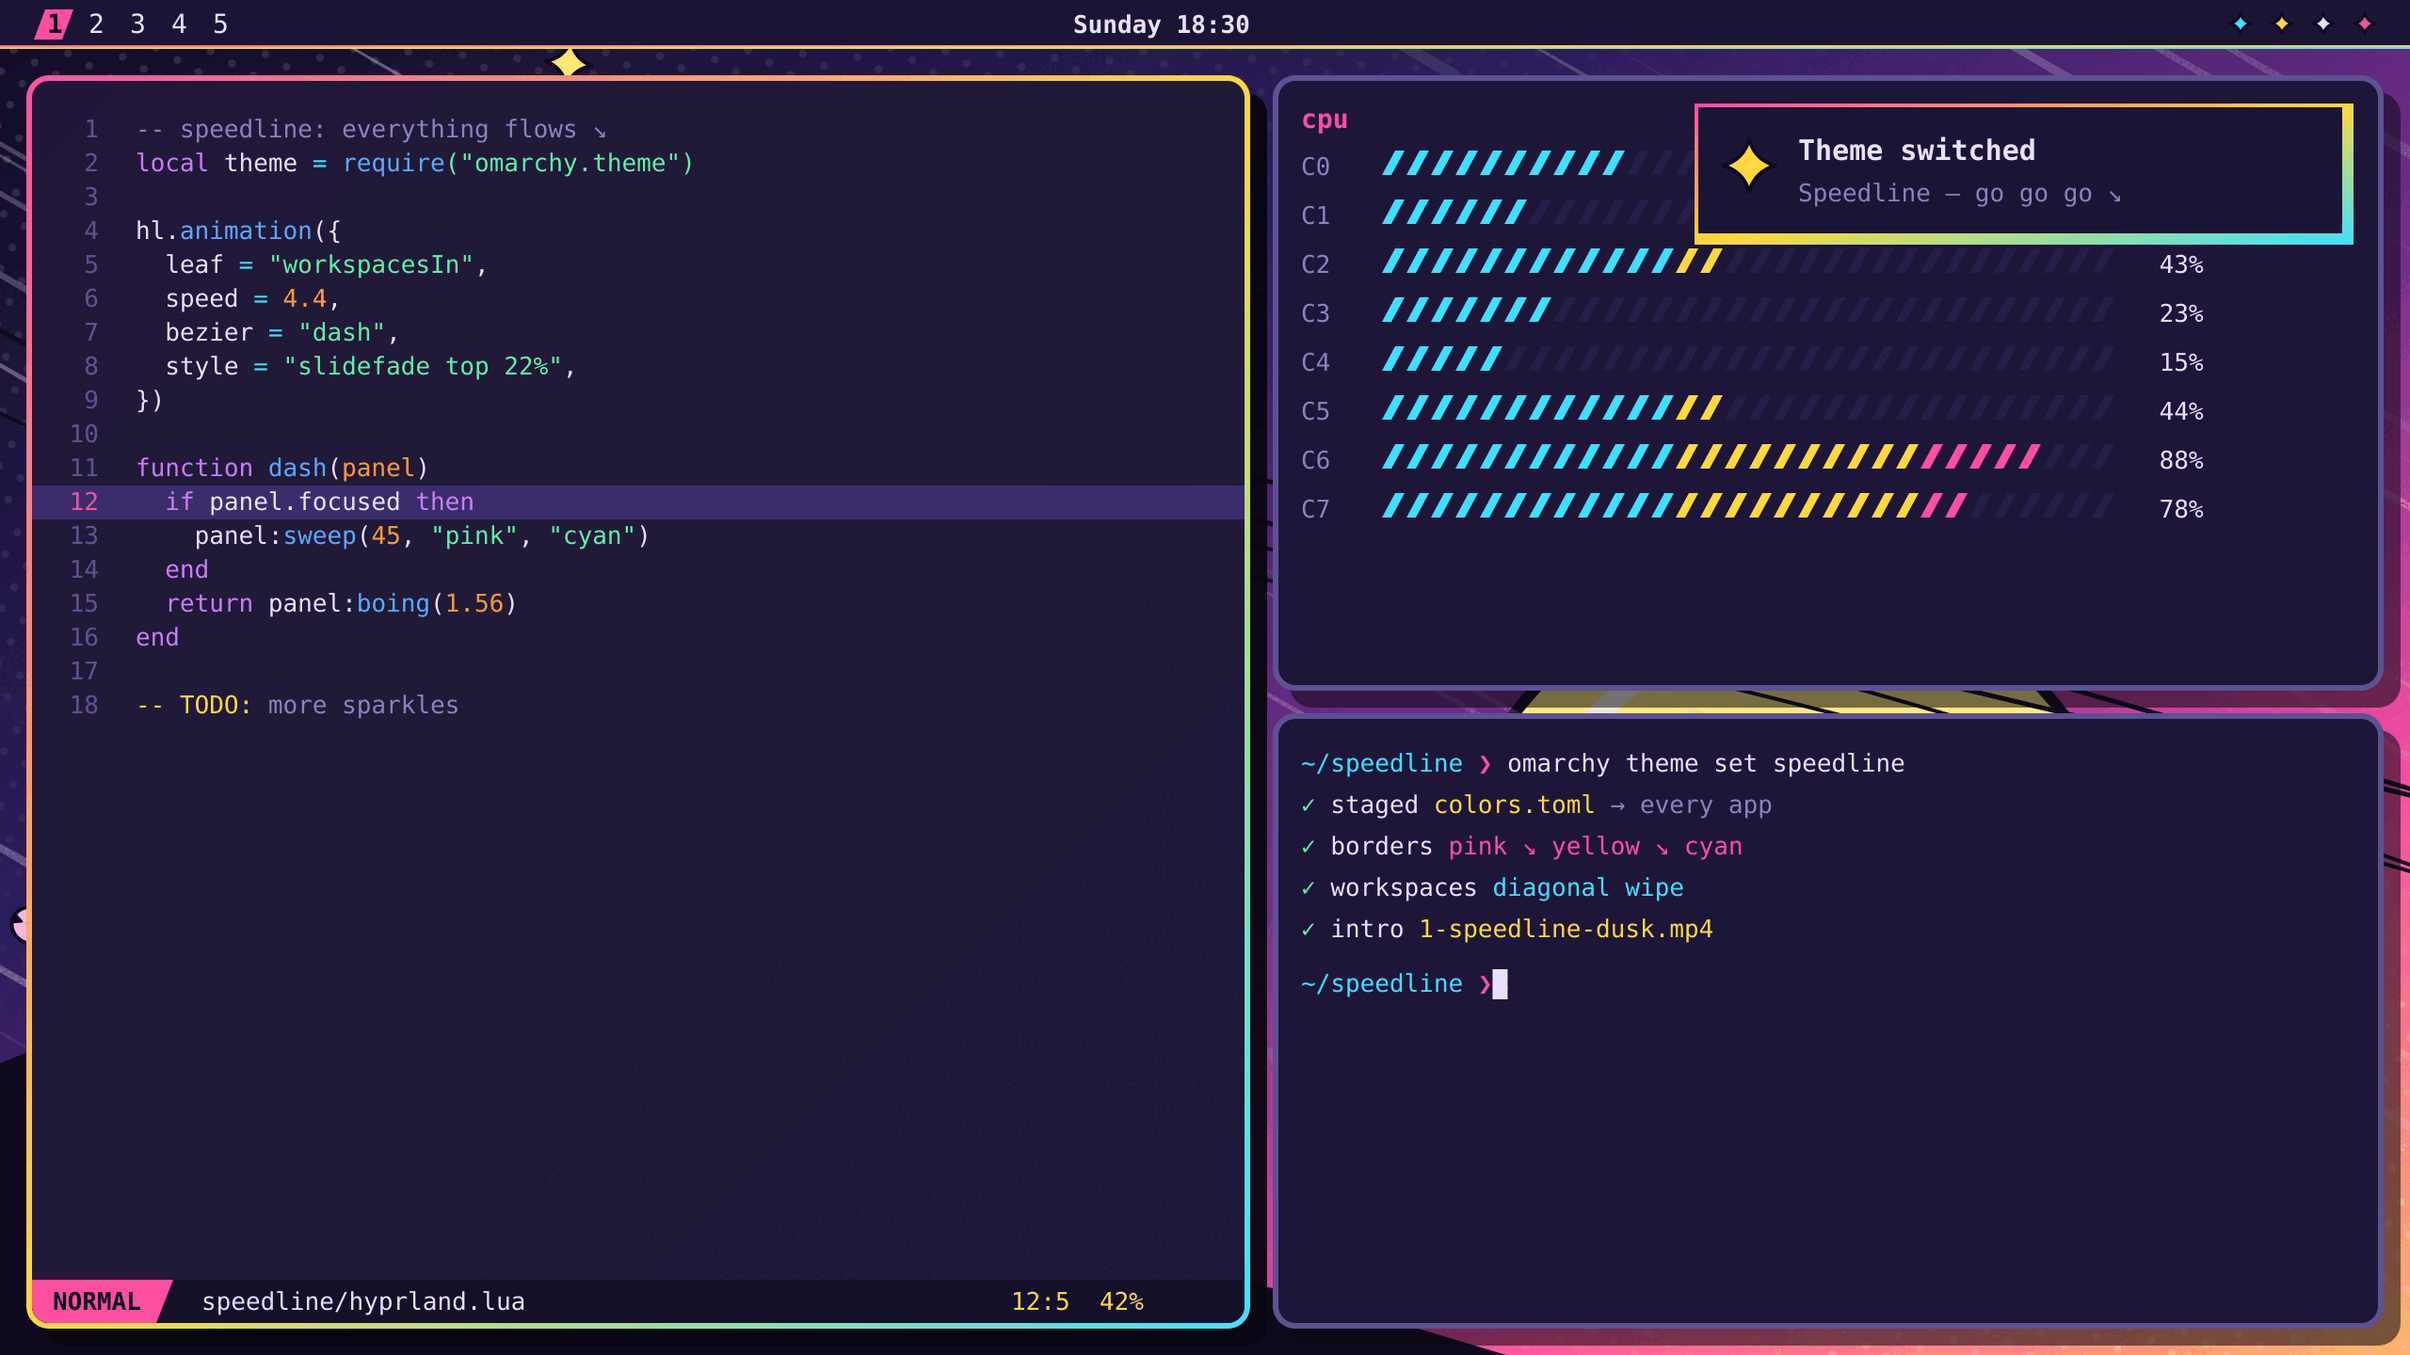
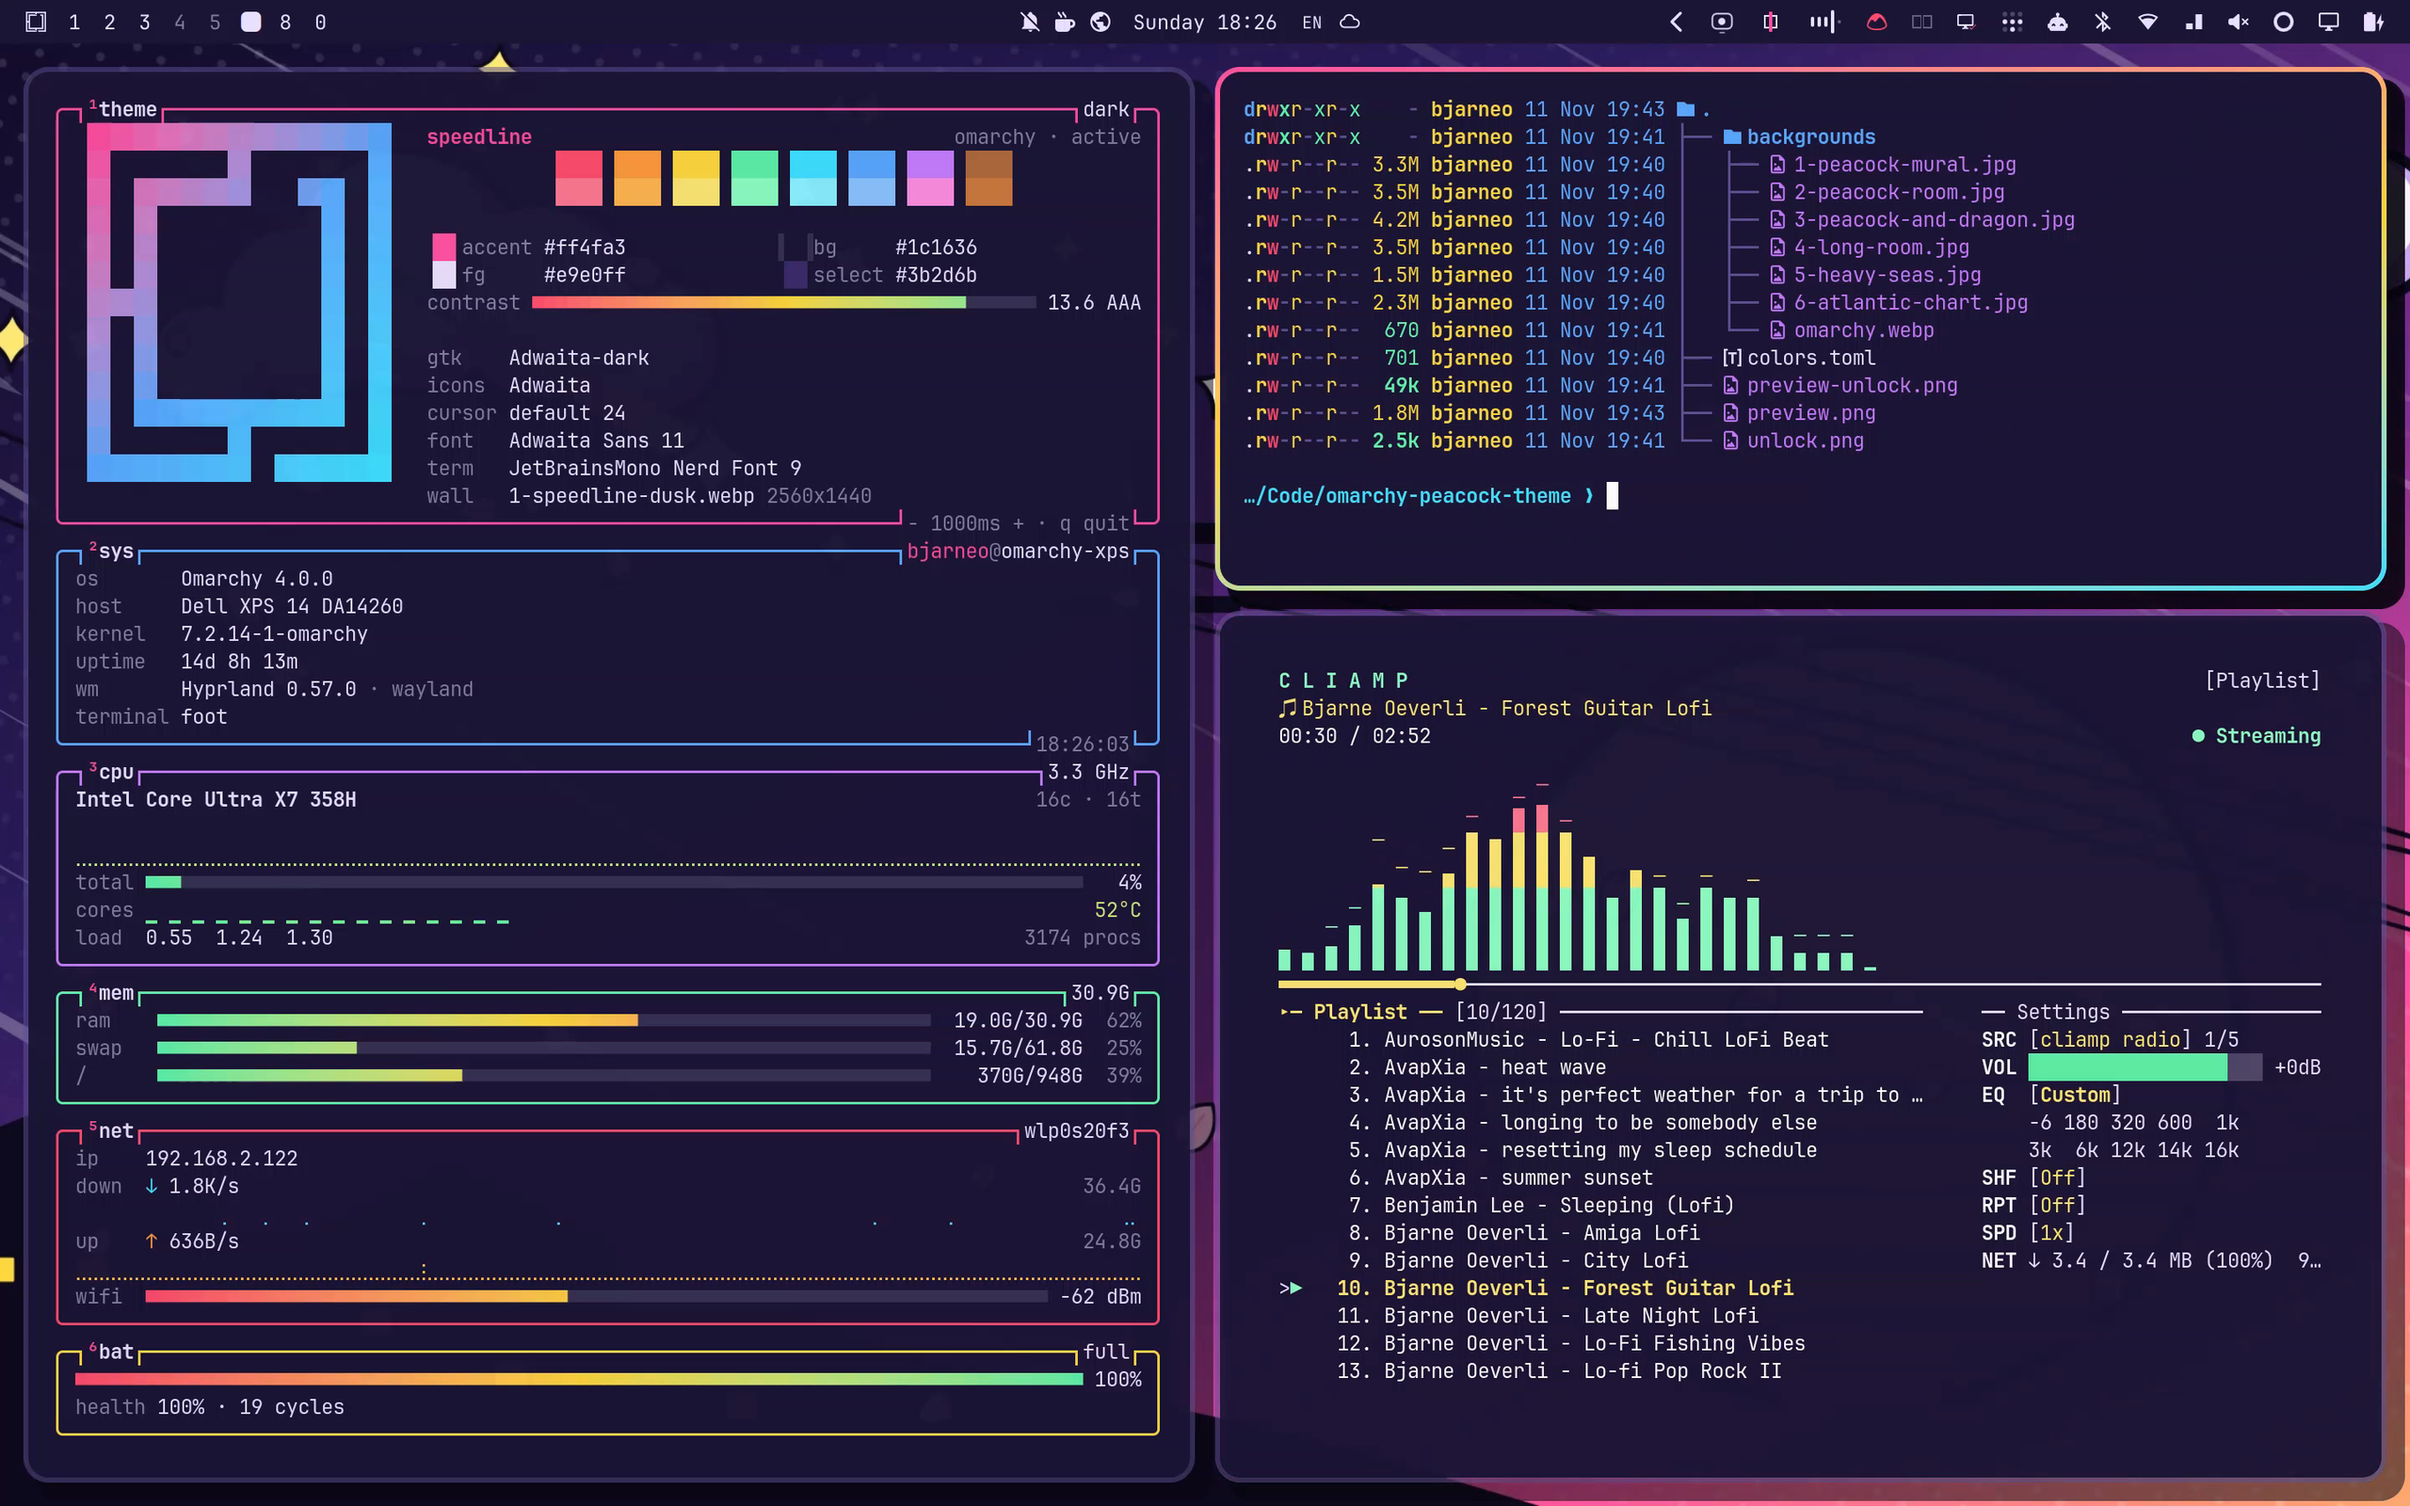
Use a workspace 6 screenshot as the preview
Replace preview.png with a screenshot of a real Speedline desktop, and
show it at the top of the README. The Neovim, Folio and fastfetch
screenshot moves to the What you get section.

Changed region(s): [[0.0, 0.0, 1.0, 1.0], [0.9062, 0.8125, 0.9375, 0.8438]]

diff --git a/README.md b/README.md
@@ -2,7 +2,7 @@
 
 A theme for [Omarchy](https://omarchy.org) with comic-panel windows, sakura petals and speed lines. Windows and workspaces move diagonally, from the top left to the bottom right.
 
-![Speedline desktop with Neovim, Folio and fastfetch](screenshots/desktop.png)
+![Speedline desktop with a theme dashboard, a file listing and the cliamp music player](preview.png)
 
 ## Install
 
@@ -34,6 +34,8 @@ Omarchy removes `hyprland.lua` from a theme that it clones, because Hyprland run
 | Shadow | A hard ink shadow, offset down and to the right like a comic panel. |
 | Shell | The menu, launcher, notifications, popups, lock screen and polkit dialog get thin top and left edges and thick bottom and right edges. |
 | Wallpapers | Dusk power lines with a 6.5-second intro video, manga panels and moonlit petals. |
+
+![Speedline desktop with Neovim, Folio and fastfetch](screenshots/desktop.png)
 
 ![Close-up of the border: pink at the top left, cyan and the ink shadow at the bottom right](screenshots/border-detail.png)
 
